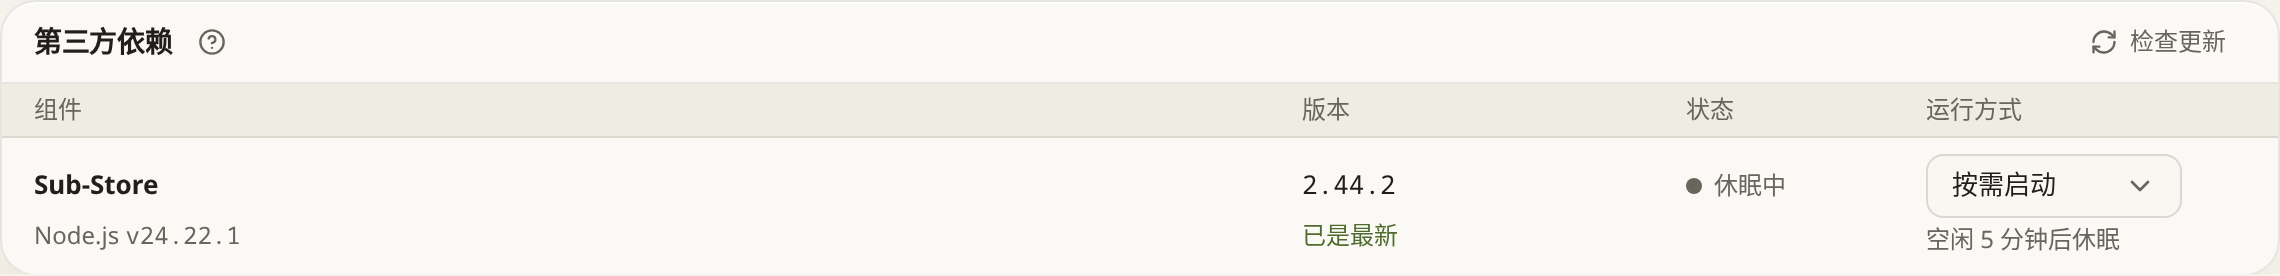
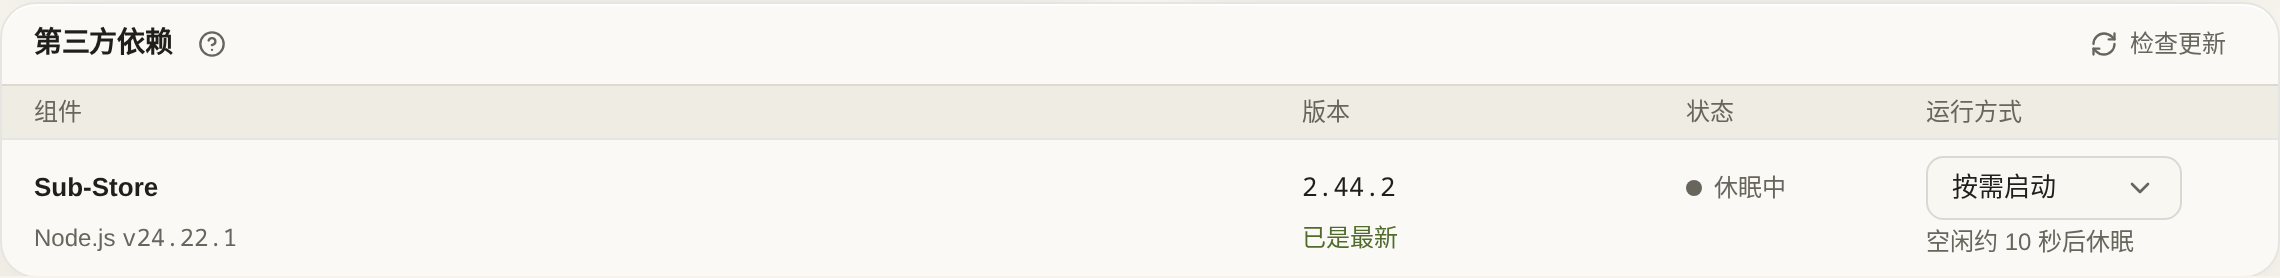
perf(substore): 按需模式空闲 10 秒后休眠
内置 Sub-Store 原来在最后一次使用后保留 5 分钟。生产日志显示每次启动只有一轮
调用（约 0.5 秒内完成），随后空等满 5 分钟才退出，期间多占约 80 MiB。
冷启动实测约 0.45 秒，同一轮操作里的多次调用是连续发出的，不会被中途关闭。

依赖卡片的说明改为按接口返回的 idle_seconds 显示，并同步文档和截图。
录制的依赖列表参考输出里的 idle_seconds 随之更新。

diff --git a/frontend/tests/sub-store-runtime.test.ts b/frontend/tests/sub-store-runtime.test.ts
@@ -9,7 +9,7 @@ vi.mock('@/api', () => ({ dependenciesApi: { setSubStoreMode: vi.fn() } }))
 vi.mock('@/lib/feedback', () => ({ notify: { success: vi.fn(), error: vi.fn() } }))
 const wrappers: ReturnType<typeof mount>[] = []
 const dependency = (extra = {}) => ({ key: 'sub-store', running: false,
-  lifecycle: { managed: true, mode: 'on_demand', state: 'sleeping', idle_seconds: 300, error: '' },
+  lifecycle: { managed: true, mode: 'on_demand', state: 'sleeping', idle_seconds: 10, error: '' },
   update: { state: 'idle' }, ...extra } as DependencyStatus)
 function render(dep = dependency()) {
   const wrapper = mount(SubStoreRuntime, { props: { dependency: dep }, attachTo: document.body })
@@ -27,8 +27,13 @@ describe('Sub-Store runtime settings', () => {
     const wrapper = render()
     expect(wrapper.get('[role="combobox"]').attributes('aria-label')).toBe('Sub-Store 运行方式')
     expect(wrapper.getComponent(Select).props('modelValue')).toBe('on_demand')
-    expect(wrapper.text()).toContain('空闲 5 分钟')
+    expect(wrapper.text()).toContain('空闲约 10 秒后休眠')
     expect(dependenciesApi.setSubStoreMode).not.toHaveBeenCalled()
+  })
+
+  it('describes a longer idle window in minutes', () => {
+    const wrapper = render(dependency({ lifecycle: { managed: true, mode: 'on_demand', state: 'sleeping', idle_seconds: 300, error: '' } }))
+    expect(wrapper.text()).toContain('空闲约 5 分钟后休眠')
   })
 
   it('waits for a successful mode change and prevents duplicate saves', async () => {

diff --git a/frontend/src/components/settings/SubStoreRuntime.vue b/frontend/src/components/settings/SubStoreRuntime.vue
@@ -11,7 +11,7 @@
         </SelectContent>
       </Select>
       <p :id="`${id}-description`" class="m-0 mt-0.5 text-[12px] leading-[18px] text-muted-foreground" aria-live="polite">
-        {{ saving ? '正在保存…' : mode === 'on_demand' ? '空闲 5 分钟后休眠' : '持续运行，随时就绪' }}
+        {{ saving ? '正在保存…' : mode === 'on_demand' ? `空闲约 ${idleText}后休眠` : '持续运行，随时就绪' }}
       </p>
     </template>
     <span v-else class="inline-flex min-h-8 items-center text-[12px] text-muted-foreground">由外部服务管理</span>
@@ -31,6 +31,10 @@ const id = useId()
 type Mode = 'on_demand' | 'always'
 const mode = ref<Mode>('on_demand')
 const saving = ref(false)
+const idleText = computed(() => {
+  const seconds = props.dependency.lifecycle?.idle_seconds ?? 10
+  return seconds >= 60 ? `${Math.round(seconds / 60)} 分钟` : `${seconds} 秒`
+})
 const disabled = computed(() => saving.value || props.dependency.update.state === 'running' || props.dependency.lifecycle?.state === 'updating')
 watch(() => props.dependency.lifecycle?.mode, value => { mode.value = value === 'always' ? 'always' : 'on_demand' }, { immediate: true })
 async function saveMode(value: unknown) {

diff --git a/server/internal/substore/runtime_test.go b/server/internal/substore/runtime_test.go
@@ -164,6 +164,44 @@ func TestIdleTimeBeginsAfterFailedTaskFinishes(t *testing.T) {
 	}
 }
 
+// The on-demand process is kept for IdleSeconds after its last use, then the
+// next tick stops it.
+func TestOnDemandStopsAfterTheDefaultIdleWindow(t *testing.T) {
+	h, rt, _ := lifecycleService(t)
+	ctx := context.Background()
+	rt.IdleSeconds = IdleSeconds
+	if IdleSeconds != 10 {
+		t.Fatalf("IdleSeconds = %v, the documented window is 10 seconds", IdleSeconds)
+	}
+	if err := rt.Use(ctx, func(context.Context) error { return nil }); err != nil {
+		t.Fatal(err)
+	}
+	age := func(seconds float64) {
+		t.Helper()
+		err := rt.withControl(ctx, func(ctx context.Context) error {
+			ts := SystemClock.Monotonic() - seconds
+			return rt.writeState(ctx, runtimePatch{LastUsed: &ts})
+		})
+		if err != nil {
+			t.Fatal(err)
+		}
+	}
+	age(IdleSeconds - 2)
+	if err := rt.Tick(ctx); err != nil {
+		t.Fatal(err)
+	}
+	if !h.store.running() {
+		t.Fatal("stopped before the idle window elapsed")
+	}
+	age(IdleSeconds + 1)
+	if err := rt.Tick(ctx); err != nil {
+		t.Fatal(err)
+	}
+	if h.store.running() {
+		t.Fatal("still running after the idle window elapsed")
+	}
+}
+
 // test_sub_store_runtime.py::test_update_waits_for_conversion_and_blocks_new_work_and_stop
 func TestUpdateWaitsForConversionAndBlocksNewWorkAndStop(t *testing.T) {
 	_, rt, _ := lifecycleService(t)

diff --git a/server/internal/substore/dependencies_test.go b/server/internal/substore/dependencies_test.go
@@ -465,7 +465,7 @@ func TestGetSubStoreStatus(t *testing.T) {
 	want := &DependencyStatus{
 		Key: "sub-store", Name: "Sub-Store", Description: "订阅解析与节点格式转换",
 		Homepage: "https://github.com/sub-store-org/Sub-Store", Running: true,
-		Lifecycle:      &RuntimeStatus{Managed: true, Mode: "on_demand", State: "running", IdleSeconds: 300, Error: ""},
+		Lifecycle:      &RuntimeStatus{Managed: true, Mode: "on_demand", State: "running", IdleSeconds: IdleSeconds, Error: ""},
 		CurrentVersion: "2.40.0", BuiltinVersion: "2.40.0", OnlineUpdated: true, Runtime: "v26.0.0",
 		LatestVersion: "2.42.0", LatestPublishedAt: "p", ReleaseURL: "u", ReleaseNotes: "n", CheckError: "",
 		HasUpdate: true, Updatable: true,

diff --git a/server/internal/substore/runtime.go b/server/internal/substore/runtime.go
@@ -21,9 +21,11 @@ import (
 	"configflow/internal/repo"
 )
 
-// IdleSeconds is IDLE_SECONDS: an on-demand Sub-Store stops after five idle
-// minutes.
-const IdleSeconds = 300
+// IdleSeconds is how long an on-demand Sub-Store stays up after its last use.
+// One operation (a subscription refresh, a batch of node conversions) issues
+// its calls back to back, so a short window is enough to reuse the process;
+// a cold start costs well under a second.
+const IdleSeconds = 10
 
 var runtimeLog = logx.Get("backend.utils.sub_store_runtime")
 

diff --git a/doc/guide/install.md b/doc/guide/install.md
@@ -344,7 +344,7 @@ npm run dev -- --host 127.0.0.1 --port 15800 --strictPort
 | 访问令牌 | 默认空；需要限制配置链接访问时生成 | 下载链接需带令牌；此令牌也授权 MCP 管理操作，应像密码一样保管 | 配置令牌保护关闭；不要把它与网页登录账号混为一项 |
 | Web 监听端口 | Bridge 示例内部为 `80`；Host 示例被环境变量指定为 `8088`，页面只读 | 改的是容器实际监听端口，详见下一节 | 沿用当前启动设置；不是服务域名里的地址文本 |
 
-内置 Sub-Store 是转换订阅用的程序，默认按需启动，空闲约 5 分钟后休眠。首次转换需要等待启动；看到“休眠中”不代表故障。Docker 镜像无需另装 Sub-Store，也无需对外开放其内部端口（默认 `3001`，本页 Host 示例为 `15802`）。
+内置 Sub-Store 是转换订阅用的程序，默认按需启动，空闲约 10 秒后休眠。休眠后的第一次转换需要等待启动（通常不到 1 秒）；看到“休眠中”不代表故障。Docker 镜像无需另装 Sub-Store，也无需对外开放其内部端口（默认 `3001`，本页 Host 示例为 `15802`）。
 
 镜像里只有 ConfigFlow 服务和它管理的 Sub-Store 两个常驻程序，不含 Python。Sub-Store 意外退出时会自动拉起；ConfigFlow 服务本身退出时容器随之停止，由 Docker 的重启策略（本页示例为 `unless-stopped`）重新启动，所以不要去掉 `restart` 设置。
 
